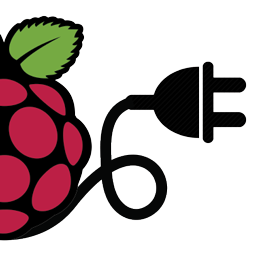
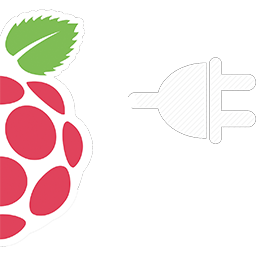
Switch to black background for better display on TVs

diff --git a/com.genuitec.piplug.app.infocom/src/com/genuitec/piplug/app/infocom/InfocomEngine.java b/com.genuitec.piplug.app.infocom/src/com/genuitec/piplug/app/infocom/InfocomEngine.java
@@ -4,6 +4,10 @@ import java.io.IOException;
 import java.io.InputStream;
 import java.net.URL;
 
+import org.eclipse.core.runtime.IProgressMonitor;
+import org.eclipse.core.runtime.IStatus;
+import org.eclipse.core.runtime.Status;
+import org.eclipse.core.runtime.jobs.Job;
 import org.eclipse.swt.SWT;
 import org.eclipse.swt.layout.GridData;
 import org.eclipse.swt.widgets.Label;
@@ -19,7 +23,12 @@ import com.genuitec.piplug.api.IPiPlugServices;
 
 public class InfocomEngine {
 
-    private final class RunEmulation implements Runnable {
+    private final class RunEmulation extends Job implements Runnable {
+
+	public RunEmulation() {
+	    super("invoke-emulator");
+	}
+
 	public void run() {
 	    screen.zm = zm;
 	    screen.setFocus();
@@ -27,6 +36,17 @@ public class InfocomEngine {
 	    screen.clear();
 	    status_line.clear();
 	    services.switchToHome();
+	}
+
+	@Override
+	protected IStatus run(IProgressMonitor monitor) {
+	    while (!screen.isPainted()) {
+		schedule(50);
+		return Status.OK_STATUS;
+	    }
+
+	    composite.getDisplay().asyncExec(this);
+	    return Status.OK_STATUS;
 	}
     }
 
@@ -49,7 +69,7 @@ public class InfocomEngine {
 	    zm = null;
 	}
 	startzm(zcodefile);
-	composite.getDisplay().asyncExec(new RunEmulation());
+	new RunEmulation().schedule();
     }
 
     public void stop() {

diff --git a/com.genuitec.piplug.ui/src/com/genuitec/piplug/ui/PiPlugUITheme.java b/com.genuitec.piplug.ui/src/com/genuitec/piplug/ui/PiPlugUITheme.java
@@ -17,14 +17,14 @@ public class PiPlugUITheme implements IPiPlugUITheme {
     private Color titleColor, subtitleColor;
 
     public PiPlugUITheme(Shell shell) {
-	backgroundColor = new Color(Display.getDefault(), 255, 255, 255);
+	backgroundColor = new Color(Display.getDefault(), 0, 0, 0);
 	FontData fontBase = shell.getFont().getFontData()[0];
 	titleFont = new Font(Display.getDefault(), fontBase.getName(),
 		fontBase.getHeight() + 4, SWT.NONE);
-	titleColor = new Color(Display.getDefault(), 35, 31, 35);
+	titleColor = new Color(Display.getDefault(), 210, 210, 210);
 	subtitleFont = new Font(Display.getDefault(), fontBase.getName(),
 		fontBase.getHeight() + 2, SWT.NONE);
-	subtitleColor = new Color(Display.getDefault(), 88, 89, 91);
+	subtitleColor = new Color(Display.getDefault(), 160, 160, 160);
     }
 
     @Override
@@ -40,7 +40,7 @@ public class PiPlugUITheme implements IPiPlugUITheme {
 
     @Override
     public Image getHeaderLogoImage() {
-	return PiPlugUIActivator.loadImage("images/PiPlug-wtext-50h.png");
+	return PiPlugUIActivator.loadImage("images/PiPlug-wText-100h.png");
     }
 
     @Override

diff --git a/com.genuitec.piplug.app.clock/src/com/genuitec/piplug/app/clock/ClockComposite.java b/com.genuitec.piplug.app.clock/src/com/genuitec/piplug/app/clock/ClockComposite.java
@@ -48,8 +48,8 @@ public class ClockComposite extends Composite {
 		logo.setBackground(theme.getBackgroundColor());
 
 		label = new Label(this, SWT.CENTER);
-		label.setFont(new Font(getDisplay(), "Courier", 90, SWT.BOLD));
-		label.setForeground(new Color(getDisplay(), 128, 128, 190));
+		label.setFont(new Font(getDisplay(), "Courier", 120, SWT.BOLD));
+		label.setForeground(new Color(getDisplay(), 128, 128, 255));
 		label.setBackground(getBackground());
 		label.setLayoutData(new GridData(SWT.CENTER, SWT.CENTER, true, true));
 		format = new SimpleDateFormat("H:mm:ss");

diff --git a/com.genuitec.piplug.ui/src/com/genuitec/piplug/ui/PiPlugStartingUpComposite.java b/com.genuitec.piplug.ui/src/com/genuitec/piplug/ui/PiPlugStartingUpComposite.java
@@ -15,7 +15,9 @@ public class PiPlugStartingUpComposite extends Composite {
 
     public PiPlugStartingUpComposite(Composite parent, IPiPlugUITheme theme) {
 	super(parent, SWT.NONE);
-	setLayout(new GridLayout(1, false));
+	GridLayout layout = new GridLayout(1, false);
+	layout.verticalSpacing = 20;
+	setLayout(layout);
 	setBackground(theme.getBackgroundColor());
 	Label label = new Label(this, SWT.CENTER);
 	label.setImage(PiPlugUIActivator.loadImage(LOGO));

diff --git a/com.genuitec.piplug.ui/src/com/genuitec/piplug/ui/PiPlugApplication.java b/com.genuitec.piplug.ui/src/com/genuitec/piplug/ui/PiPlugApplication.java
@@ -40,8 +40,12 @@ public class PiPlugApplication implements IApplication {
 
 	// run the display loop
 	while (!shell.isDisposed() && display.sleep()) {
-	    while (!shell.isDisposed() && display.readAndDispatch()) {
-		// process events
+	    try {
+		while (!shell.isDisposed() && display.readAndDispatch()) {
+		    // process events
+		}
+	    } catch (Exception e) {
+		e.printStackTrace();
 	    }
 	}
 	return new Integer(0);

diff --git a/com.genuitec.piplug.ui/src/com/genuitec/piplug/ui/PiPlugDashboardComposite.java b/com.genuitec.piplug.ui/src/com/genuitec/piplug/ui/PiPlugDashboardComposite.java
@@ -98,6 +98,7 @@ public class PiPlugDashboardComposite extends Composite {
 	    label = new Label(this, SWT.CENTER);
 	    label.setText(app.getBranding().getName());
 	    label.setFont(theme.getSubtitleFont());
+	    label.setForeground(theme.getSubtitleColor());
 	    label.setLayoutData(new GridData(SWT.FILL, SWT.BOTTOM, true, false));
 	    label.addMouseListener(this);
 	    label.setBackground(theme.getBackgroundColor());

diff --git a/com.genuitec.piplug.app.infocom/src/russotto/zplet/screenmodel/ZScreen.java b/com.genuitec.piplug.app.infocom/src/russotto/zplet/screenmodel/ZScreen.java
@@ -490,4 +490,8 @@ public class ZScreen extends Canvas implements KeyListener, PaintListener {
 	e.gc.drawImage(backing_image, e.x, e.y, e.width, e.height, e.x, e.y,
 		e.width, e.height);
     }
+
+    public boolean isPainted() {
+	return fixedmetrics != null && lines > 0 && inputcursor != null;
+    }
 }
